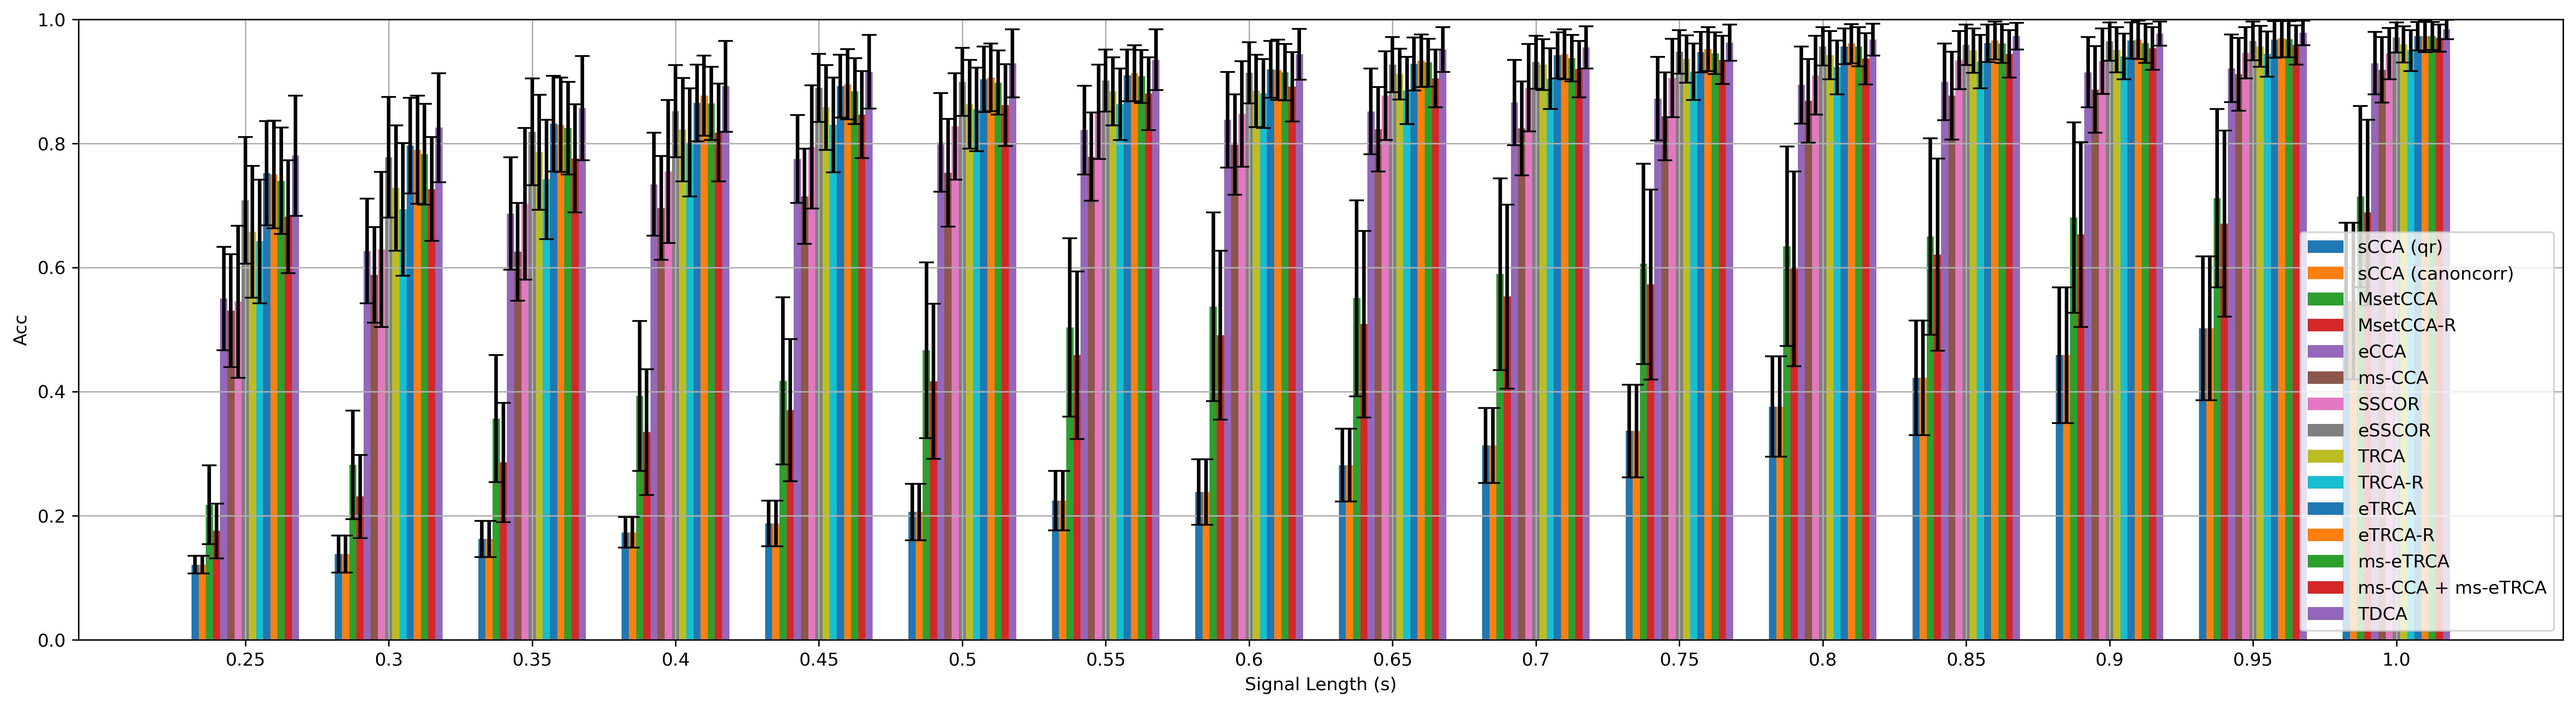
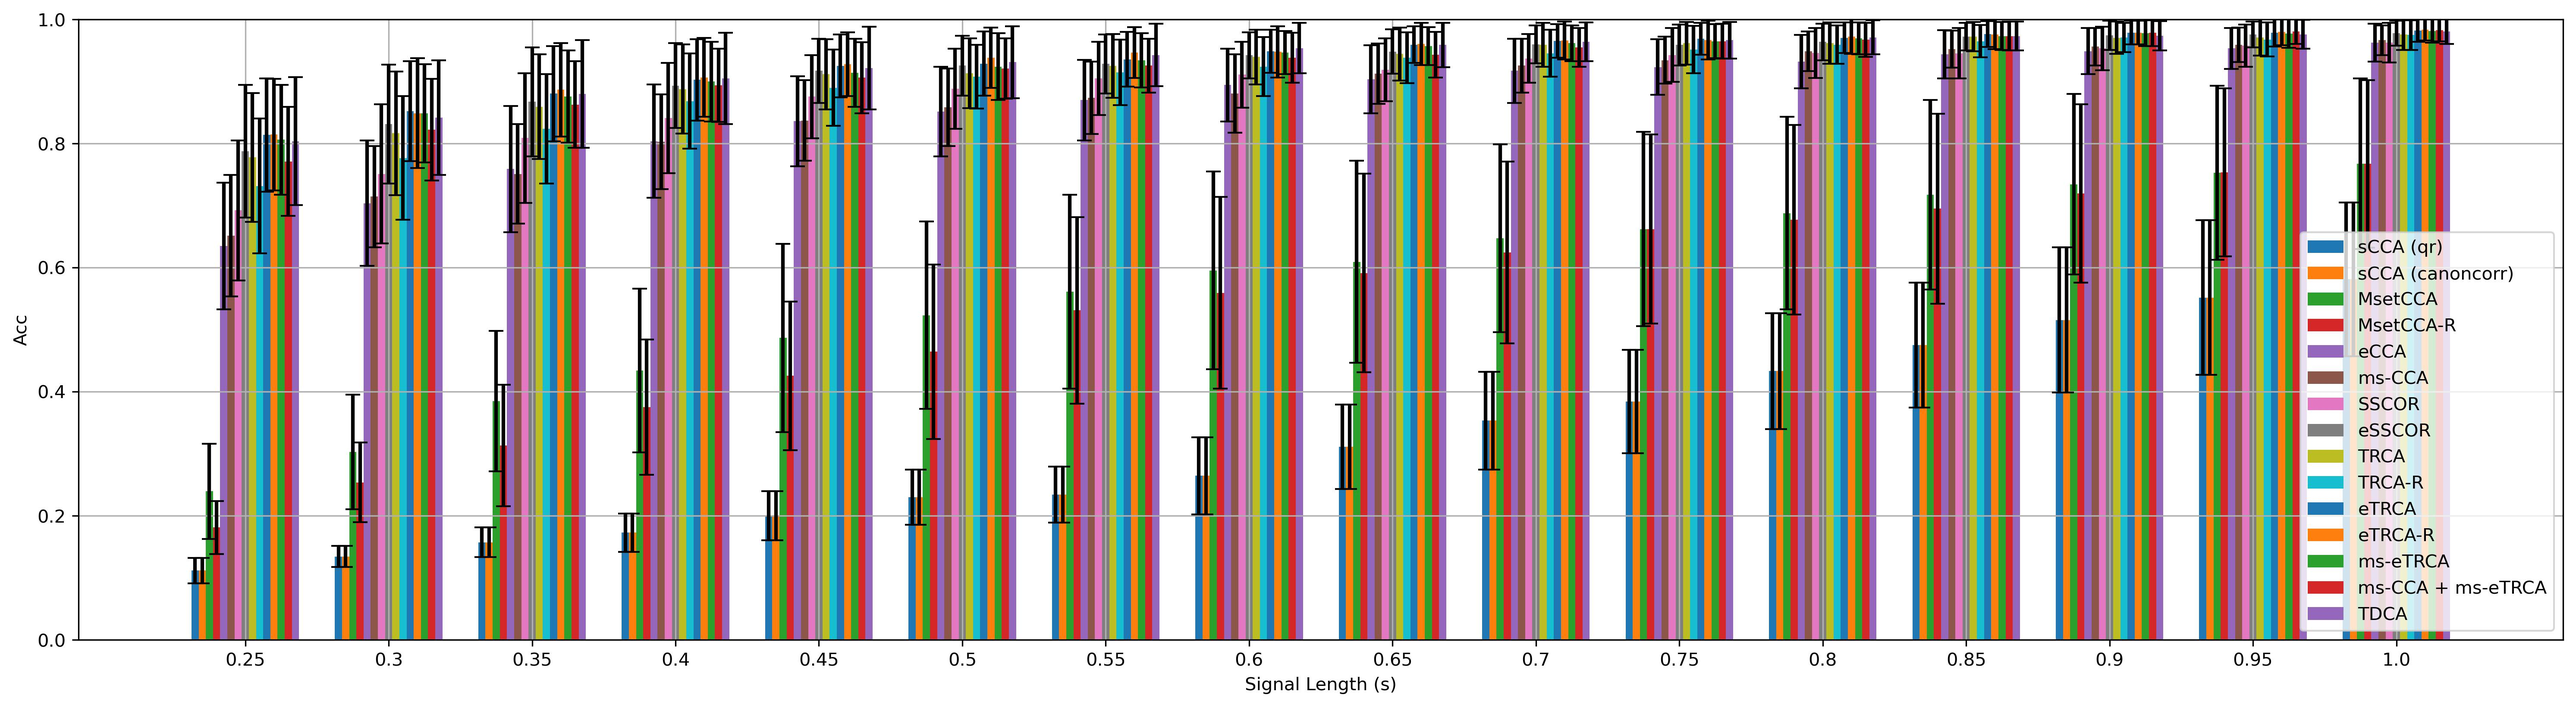
Update nakanish dataset results

diff --git a/demo/nakanishidataset.py b/demo/nakanishidataset.py
@@ -21,13 +21,15 @@ from SSVEPAnalysisToolbox.utils.io import savedata
 
 import numpy as np
 
+num_subbands = 5
+
 # Prepare dataset
 dataset = NakanishiDataset(path = 'Nakanishi_2015')
 dataset.regist_preprocess(preprocess)
-dataset.regist_filterbank(filterbank)
+dataset.regist_filterbank(lambda dataself, X: filterbank(dataself, X, num_subbands))
 ch_used = suggested_ch()
 all_trials = [i for i in range(dataset.trial_num)]
-harmonic_num = 3
+harmonic_num = 5
 dataset_container = [
                         dataset
                     ]
@@ -47,7 +49,7 @@ trial_container = gen_trials_onedataset_individual_diffsiglen(dataset_idx = 0,
 
 
 # Prepare models
-weights_filterbank = suggested_weights_filterbank()
+weights_filterbank = suggested_weights_filterbank(num_subbands)
 model_container = [
                    SCCA_qr(weights_filterbank = weights_filterbank),
                    SCCA_canoncorr(weights_filterbank = weights_filterbank),

diff --git a/SSVEPAnalysisToolbox/utils/nakanishipreprocess.py b/SSVEPAnalysisToolbox/utils/nakanishipreprocess.py
@@ -15,7 +15,10 @@ def suggested_weights_filterbank(num_subbands: Optional[int] = 1) -> List[float]
     weights_filterbank : List[float]
         Suggested weights of filterbank
     """
-    return [1 for _ in range(num_subbands)]
+    if num_subbands == 1:
+        return [1 for _ in range(num_subbands)]
+    else:
+        return [i**(-1.25)+0.25 for i in range(1,num_subbands+1,1)]
 
 def suggested_ch() -> List[int]:
     """
